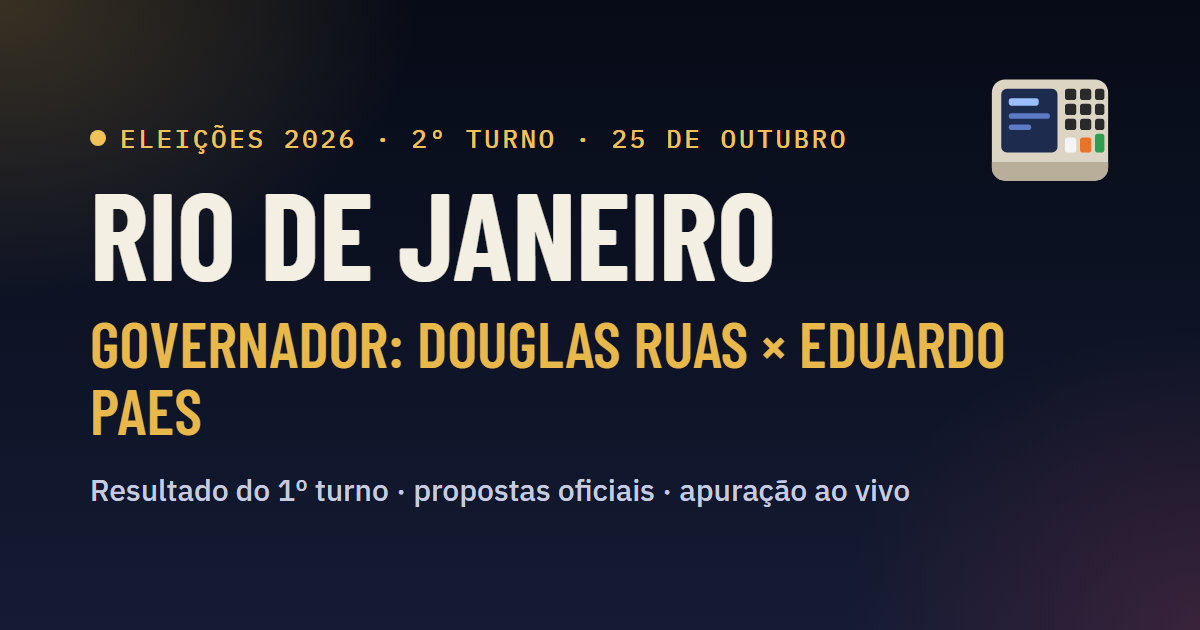
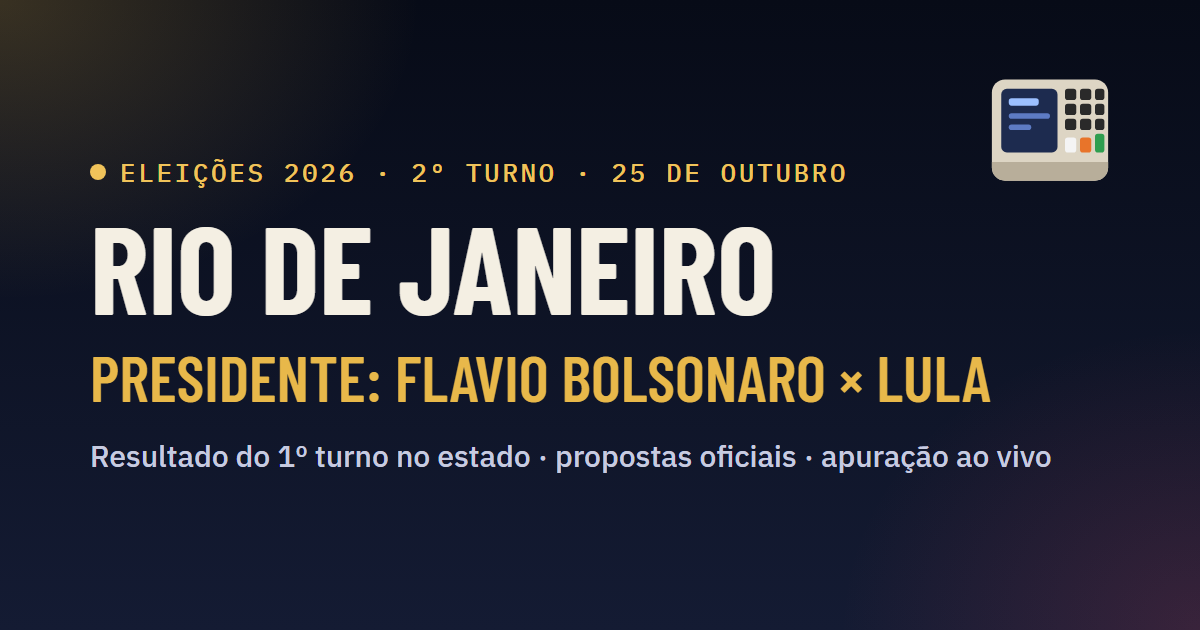
RJ sem 2º turno para Governador: atualiza dados e prévias
O TSE retotalizou o 1º turno do RJ em 10/10 (274.411 votos viraram nulos
técnicos) e Douglas Ruas passou a 50,88% dos válidos, eleito no 1º turno.
O TSE não tem arquivo do 2º turno de Governador do RJ, mas o site ainda
mostrava o duelo Douglas Ruas × Eduardo Paes.

Rodados scripts/segundo_turno.py e scripts/paginas.py --imagens:
segundo-turno.json, página e imagem de /rj/ (agora de Presidente) e os
textos de "7 estados" passam para 6. Também tira do README as marcas de
conflito de merge que tinham ficado no arquivo.

Changed region(s): [[0.0617, 0.181, 0.8942, 0.8143]]

diff --git a/public/simulador/index.html b/public/simulador/index.html
@@ -84,7 +84,7 @@
     "@id": "https://eleicao.luiz-porto.workers.dev/#autor"
    },
    "datePublished": "2026-10-06",
-   "dateModified": "2026-10-06",
+   "dateModified": "2026-10-25",
    "isBasedOn": {
     "@type": "CreativeWork",
     "name": "Resultados oficiais das Eleições 2026",
@@ -258,7 +258,7 @@
         <div class="tabela-wrap"><table class="ev-tabela"><thead><tr><th>Candidato</th><th>Partido</th><th>Votos</th><th>% válidos</th></tr></thead><tbody><tr><td>Flavio Bolsonaro</td><td>PL</td><td>56.104.503</td><td>47,03%</td></tr><tr><td>Lula</td><td>PT</td><td>53.879.538</td><td>45,16%</td></tr><tr><td>Escritor Augusto Cury</td><td>AVANTE</td><td>3.448.569</td><td>2,89%</td></tr><tr><td>Renan Santos</td><td>MISSÃO</td><td>2.675.887</td><td>2,24%</td></tr><tr><td>Ronaldo Caiado</td><td>PSD</td><td>2.605.148</td><td>2,18%</td></tr><tr><td>Zema</td><td>NOVO</td><td>326.488</td><td>0,27%</td></tr><tr><td>Samara</td><td>UP</td><td>122.911</td><td>0,10%</td></tr><tr><td>Hertz Dias</td><td>PSTU</td><td>43.103</td><td>0,04%</td></tr><tr><td>Clariana Barao</td><td>DC</td><td>40.043</td><td>0,03%</td></tr><tr><td>Edmilson Costa</td><td>PCB</td><td>22.693</td><td>0,02%</td></tr><tr><td>Veterinário Wilson Grassi</td><td>DEMOCRATA</td><td>16.881</td><td>0,01%</td></tr><tr><td>Rui Costa Pimenta</td><td>PCO</td><td>15.024</td><td>0,01%</td></tr><tr><td>Brancos</td><td></td><td>2.300.798</td><td></td></tr><tr><td>Nulos</td><td></td><td>3.674.249</td><td></td></tr><tr><td>Não foram votar (abstenção)</td><td></td><td>33.469.244</td><td></td></tr></tbody></table></div>
         <p class="ev-nota">Fonte: TSE, resultado oficial do 1º turno (Brasil e exterior).</p>
         <h3>Perguntas frequentes</h3>
-        <div class="sim-faq"><div><h3>O que é o simulador do 2º turno?</h3><p>Uma ferramenta gratuita para montar o seu cenário do 2º turno para Presidente. Para cada grupo de eleitores do 1º turno, você decide quantos por cento votariam em Flavio Bolsonaro, em Lula ou em nenhum dos dois, e vê o resultado na hora.</p></div><div><h3>O simulador é uma pesquisa eleitoral?</h3><p>Não. Ele mostra só o cenário que você montou: não é pesquisa nem previsão. O site não envia, não guarda e não soma as simulações das pessoas.</p></div><div><h3>Por que, sem mexer em nada, os percentuais não são os do 1º turno?</h3><p>No 1º turno, Flavio Bolsonaro teve 47,03% e Lula teve 45,16% dos votos válidos; o resto foi para os outros candidatos. No 2º turno os votos válidos se dividem só entre os dois. Com cada um só com os próprios votos, isso dá 51,01% × 48,99%. O resultado muda conforme você distribui os outros eleitores.</p></div><div><h3>De onde vêm os números?</h3><p>Do resultado oficial do 1º turno de 4 de outubro publicado pelo TSE (resultados.tse.jus.br), com os votos do Brasil e do exterior: 158.745.502 eleitores, 125.275.835 votaram e 119.300.788 votos válidos.</p></div><div><h3>Como compartilhar a minha simulação?</h3><p>Use “Compartilhar imagem” ou “Baixar imagem” para gerar uma imagem pronta para o WhatsApp e o Instagram, ou “Copiar link da simulação” para mandar um link que abre exatamente a mesma simulação.</p></div><div><h3>Quando é o 2º turno?</h3><p>Domingo, 25 de outubro de 2026, das 8h às 17h (horário de Brasília). O país inteiro vota para Presidente, e 7 estados também votam para Governador. Quem faltou no 1º turno pode votar normalmente no 2º.</p></div></div>
+        <div class="sim-faq"><div><h3>O que é o simulador do 2º turno?</h3><p>Uma ferramenta gratuita para montar o seu cenário do 2º turno para Presidente. Para cada grupo de eleitores do 1º turno, você decide quantos por cento votariam em Flavio Bolsonaro, em Lula ou em nenhum dos dois, e vê o resultado na hora.</p></div><div><h3>O simulador é uma pesquisa eleitoral?</h3><p>Não. Ele mostra só o cenário que você montou: não é pesquisa nem previsão. O site não envia, não guarda e não soma as simulações das pessoas.</p></div><div><h3>Por que, sem mexer em nada, os percentuais não são os do 1º turno?</h3><p>No 1º turno, Flavio Bolsonaro teve 47,03% e Lula teve 45,16% dos votos válidos; o resto foi para os outros candidatos. No 2º turno os votos válidos se dividem só entre os dois. Com cada um só com os próprios votos, isso dá 51,01% × 48,99%. O resultado muda conforme você distribui os outros eleitores.</p></div><div><h3>De onde vêm os números?</h3><p>Do resultado oficial do 1º turno de 4 de outubro publicado pelo TSE (resultados.tse.jus.br), com os votos do Brasil e do exterior: 158.745.502 eleitores, 125.275.835 votaram e 119.300.788 votos válidos.</p></div><div><h3>Como compartilhar a minha simulação?</h3><p>Use “Compartilhar imagem” ou “Baixar imagem” para gerar uma imagem pronta para o WhatsApp e o Instagram, ou “Copiar link da simulação” para mandar um link que abre exatamente a mesma simulação.</p></div><div><h3>Quando é o 2º turno?</h3><p>Domingo, 25 de outubro de 2026, das 8h às 17h (horário de Brasília). O país inteiro vota para Presidente, e 6 estados também votam para Governador. Quem faltou no 1º turno pode votar normalmente no 2º.</p></div></div>
       </section>
 
       <section class="propostas bloco" id="propostas" hidden></section>

diff --git a/public/rj/index.html b/public/rj/index.html
@@ -4,25 +4,25 @@
 <head>
 <meta charset="utf-8">
 <meta name="viewport" content="width=device-width,initial-scale=1">
-<title>Governador · Rio de Janeiro · 2º turno · Douglas Ruas × Eduardo Paes</title>
-<meta name="description" content="Douglas Ruas (PL) × Eduardo Paes (PSD) no 2º turno de 25 de outubro. Resultado do 1º turno, propostas oficiais e apuração ao vivo. No mesmo dia, o Rio de Janeiro também vota para Presidente.">
+<title>2º turno no Rio de Janeiro · Presidente · Flavio Bolsonaro × Lula</title>
+<meta name="description" content="O Rio de Janeiro elegeu Douglas Ruas (PL) governador(a) no 1º turno. Em 25 de outubro o estado vota para Presidente: Flavio Bolsonaro (PL) × Lula (PT). Resultado do 1º turno no estado e propostas oficiais.">
 <link rel="canonical" href="https://eleicao.luiz-porto.workers.dev/rj/">
 <meta property="og:type" content="website">
 <meta property="og:locale" content="pt_BR">
 <meta property="og:site_name" content="Placar da Apuração 2026">
-<meta property="og:title" content="Governador · Rio de Janeiro · 2º turno · Douglas Ruas × Eduardo Paes">
-<meta property="og:description" content="Douglas Ruas (PL) × Eduardo Paes (PSD) no 2º turno de 25 de outubro. Resultado do 1º turno, propostas oficiais e apuração ao vivo. No mesmo dia, o Rio de Janeiro também vota para Presidente.">
+<meta property="og:title" content="2º turno no Rio de Janeiro · Presidente · Flavio Bolsonaro × Lula">
+<meta property="og:description" content="O Rio de Janeiro elegeu Douglas Ruas (PL) governador(a) no 1º turno. Em 25 de outubro o estado vota para Presidente: Flavio Bolsonaro (PL) × Lula (PT). Resultado do 1º turno no estado e propostas oficiais.">
 <meta property="og:url" content="https://eleicao.luiz-porto.workers.dev/rj/">
 <meta property="og:image" content="https://eleicao.luiz-porto.workers.dev/img/compartilhar/rj.png">
 <meta property="og:image:width" content="1200">
 <meta property="og:image:height" content="630">
-<meta property="og:image:alt" content="Rio de Janeiro · Governador: Douglas Ruas × Eduardo Paes">
+<meta property="og:image:alt" content="Rio de Janeiro · Presidente: Flavio Bolsonaro × Lula">
 <meta name="twitter:card" content="summary_large_image">
 <link rel="icon" type="image/svg+xml" href="../img/favicon.svg">
-<meta http-equiv="refresh" content="0; url=../?turno=2&amp;cargo=governador&amp;uf=RJ">
-<script>location.replace("../?turno=2&cargo=governador&uf=RJ" + location.hash);</script>
+<meta http-equiv="refresh" content="0; url=../?turno=2&amp;cargo=presidente&amp;uf=RJ">
+<script>location.replace("../?turno=2&cargo=presidente&uf=RJ" + location.hash);</script>
 </head>
 <body style="background:#070b17;color:#eef0f7;font:16px system-ui,sans-serif;padding:24px">
-<p>Abrindo o placar… <a href="../?turno=2&amp;cargo=governador&amp;uf=RJ" style="color:#e8b84a">Continuar</a></p>
+<p>Abrindo o placar… <a href="../?turno=2&amp;cargo=presidente&amp;uf=RJ" style="color:#e8b84a">Continuar</a></p>
 </body>
 </html>

diff --git a/public/index.html b/public/index.html
@@ -75,7 +75,7 @@
     "Compartilhamento da simulação como imagem (WhatsApp, Instagram) ou como link",
     "Comparativo dos planos de governo: propostas oficiais registradas no TSE pelos finalistas a Presidente e Governador",
     "Resumo lado a lado dos dois planos de governo para Presidente, nos mesmos 10 temas",
-    "Visão geral do 2º turno: Presidente e Governador em 7 estados, com o resultado do 1º turno e os governadores eleitos no 1º turno",
+    "Visão geral do 2º turno: Presidente e Governador em 6 estados, com o resultado do 1º turno e os governadores eleitos no 1º turno",
     "Apuração ao vivo com dados oficiais do TSE, atualizada a cada 30 segundos",
     "Resultados do 1º turno para Presidente, Governador, Senador, Deputado Federal e Deputado Estadual ou Distrital em todos os estados",
     "Mapa do Brasil com quem está na frente em cada estado",
@@ -97,11 +97,11 @@
     "@id": "https://eleicao.luiz-porto.workers.dev/#autor"
    },
    "datePublished": "2026-10-04",
-   "dateModified": "2026-10-06",
+   "dateModified": "2026-10-25",
    "about": {
     "@type": "Event",
     "name": "Eleições Gerais 2026 · 2º turno",
-    "description": "2º turno das Eleições Gerais 2026: votação para Presidente (Flavio Bolsonaro e Lula) em todo o país e para Governador em 7 estados, das 8h às 17h (horário de Brasília).",
+    "description": "2º turno das Eleições Gerais 2026: votação para Presidente (Flavio Bolsonaro e Lula) em todo o país e para Governador em 6 estados, das 8h às 17h (horário de Brasília).",
     "image": "https://eleicao.luiz-porto.workers.dev/img/compartilhar.png",
     "startDate": "2026-10-25T08:00:00-03:00",
     "endDate": "2026-10-25T17:00:00-03:00",

diff --git a/README.md b/README.md
@@ -1,6 +1,3 @@
-<<<<<<< HEAD
-# Eleicao
-=======
 # Placar da Apuração 2026
 
 Site estático que acompanha as Eleições Gerais 2026 com os dados oficiais do TSE: resultados do 1º turno (todos os cargos), visão geral do 2º turno (Presidente e Governador), propostas de governo dos finalistas e apuração ao vivo.
@@ -115,4 +112,3 @@ Nenhum anúncio pode ser de candidato, partido ou coligação: propaganda eleito
 ## Imagens de compartilhamento
 
 `public/img/compartilhar.png` e `public/img/compartilhar/<uf>.png` (1200×630) são prints de `scripts/imagem-compartilhar.html`, gerados pelo `paginas.py --imagens` com o Edge ou o Chrome. São neutros: sem foto, nomes em ordem alfabética.
->>>>>>> 3848752 (Segundo turno)
